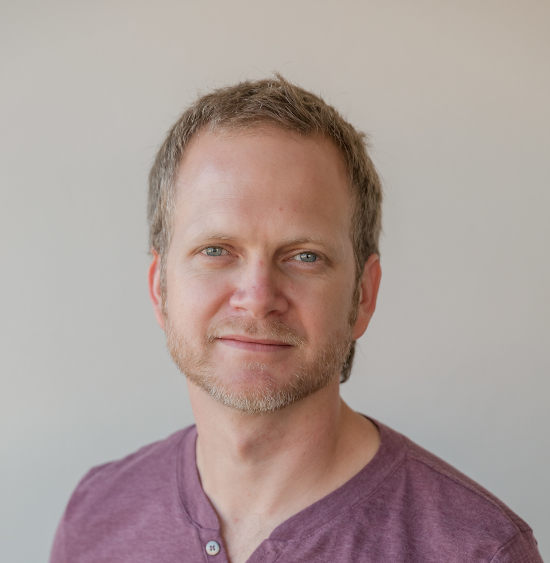
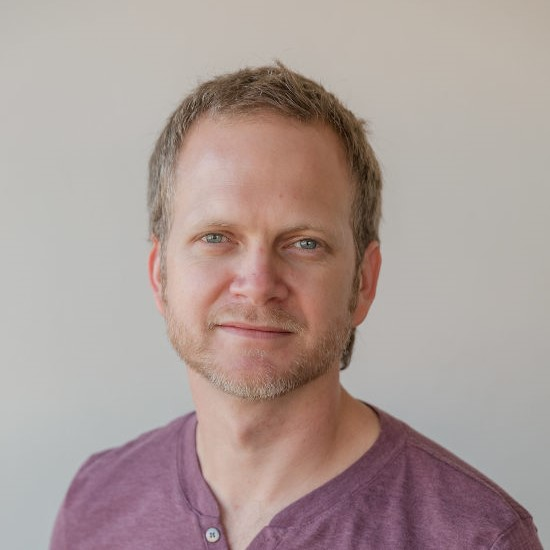
Update people

diff --git a/v/people.html b/v/people.html
@@ -7,43 +7,43 @@
           <img src="/assets/photos/placeholder.png">
           <h3>Marcelo Arenas</h3>
           <a href="mailto:lab@teoriaydatos.cl">lab@teoriaydatos.cl</a>
-          <a href="https://google.com">Personal web</a>
+          <a href="https://google.com">Website</a>
         </span>
         <span>
           <img src="/assets/photos/placeholder.png">
           <h3>Diego Arroyuelo</h3>
           <a href="mailto:lab@teoriaydatos.cl">lab@teoriaydatos.cl</a>
-          <a href="https://google.com">Personal web</a>
+          <a href="https://google.com">Website</a>
         </span>
         <span>
           <img src="/assets/photos/placeholder.png">
           <h3>Pablo Barceló</h3>
           <a href="mailto:lab@teoriaydatos.cl">lab@teoriaydatos.cl</a>
-          <a href="https://google.com">Personal web</a>
+          <a href="https://google.com">Website</a>
         </span>
         <span>
           <img src="/assets/photos/placeholder.png">
           <h3>Juan Reutter</h3>
           <a href="mailto:lab@teoriaydatos.cl">lab@teoriaydatos.cl</a>
-          <a href="https://google.com">Personal web</a>
+          <a href="https://google.com">Website</a>
         </span>
         <span>
           <img src="/assets/photos/cristian-riveros.jpg">
           <h3>Cristian Riveros</h3>
           <a href="mailto:lab@teoriaydatos.cl">cristian.riveros@uc.cl</a>
-          <a href="https://criveros.sitios.ing.uc.cl/">Personal web</a>  
+          <a href="https://criveros.sitios.ing.uc.cl/">Website</a>  
         </span>
         <span>
           <img src="/assets/photos/placeholder.png">
           <h3>Miguel Romero</h3>
           <a href="mailto:lab@teoriaydatos.cl">lab@teoriaydatos.cl</a>
-          <a href="https://google.com">Personal web</a>
+          <a href="https://google.com">Website</a>
         </span>
         <span>
           <img src="/assets/photos/placeholder.png">
           <h3>Domagoj Vrgoc</h3>
           <a href="mailto:lab@teoriaydatos.cl">lab@teoriaydatos.cl</a>
-          <a href="https://google.com">Personal web</a>
+          <a href="https://google.com">Website</a>
         </span>
     </div>
     <h2>PhD. Students</h2>
@@ -52,106 +52,106 @@
           <img src="/assets/photos/placeholder.png">
           <h3>Alejandro Grez</h3>
           <a href="mailto:lab@teoriaydatos.cl">lab@teoriaydatos.cl</a>
-          <a href="https://google.com">Personal web</a>
+          <a href="https://google.com">Website</a>
         </span>
         <span>
           <img src="/assets/photos/placeholder.png">
           <h3>Martin Muñoz</h3>
           <a href="mailto:lab@teoriaydatos.cl">lab@teoriaydatos.cl</a>
-          <a href="https://google.com">Personal web</a>
+          <a href="https://google.com">Website</a>
         </span>
         <span>
           <img src="/assets/photos/placeholder.png">
           <h3>Alexander Pinto</h3>
           <a href="mailto:lab@teoriaydatos.cl">lab@teoriaydatos.cl</a>
-          <a href="https://google.com">Personal web</a>
+          <a href="https://google.com">Website</a>
         </span>
         <span>
           <img src="/assets/photos/placeholder.png">
           <h3>Jorge Salas</h3>
           <a href="mailto:lab@teoriaydatos.cl">lab@teoriaydatos.cl</a>
-          <a href="https://google.com">Personal web</a>
+          <a href="https://google.com">Website</a>
         </span>
     </div>
     <h2>MSc. Students</h2>
     <div>
         <span>
-          <img src="/assets/photos/placeholder.png">
+          <img src="/assets/photos/diego-bustamante.jpg">
           <h3>Diego Bustamante</h3>
-          <a href="mailto:lab@teoriaydatos.cl">lab@teoriaydatos.cl</a>
-          <a href="https://google.com">Personal web</a>
+          <a href="mailto:diegobustama@uc.cl">diegobustama@uc.cl</a>
+          <a href="https://diegoemilio.com/">Website</a>
         </span>
         <span>
           <img src="/assets/photos/placeholder.png">
           <h3>Jose Thomas Caraball</h3>
           <a href="mailto:lab@teoriaydatos.cl">lab@teoriaydatos.cl</a>
-          <a href="https://google.com">Personal web</a>
+          <a href="https://google.com">Website</a>
         </span>
         <span>
           <img src="/assets/photos/placeholder.png">
           <h3>Mauricio Cari</h3>
           <a href="mailto:lab@teoriaydatos.cl">lab@teoriaydatos.cl</a>
-          <a href="https://google.com">Personal web</a>
+          <a href="https://google.com">Website</a>
         </span>
         <span>
           <img src="/assets/photos/placeholder.png">
           <h3>Benjamín Farías</h3>
           <a href="mailto:lab@teoriaydatos.cl">lab@teoriaydatos.cl</a>
-          <a href="https://google.com">Personal web</a>
+          <a href="https://google.com">Website</a>
         </span>
         <span>
           <img src="/assets/photos/placeholder.png">
           <h3>Julián García</h3>
           <a href="mailto:lab@teoriaydatos.cl">lab@teoriaydatos.cl</a>
-          <a href="https://google.com">Personal web</a>
+          <a href="https://google.com">Website</a>
         </span>
         <span>
           <img src="/assets/photos/placeholder.png">
           <h3>Sebastián Hagedorn</h3>
           <a href="mailto:lab@teoriaydatos.cl">lab@teoriaydatos.cl</a>
-          <a href="https://google.com">Personal web</a>
+          <a href="https://google.com">Website</a>
         </span>
         <span>
           <img src="/assets/photos/placeholder.png">
           <h3>Vicente Lermanda</h3>
           <a href="mailto:lab@teoriaydatos.cl">lab@teoriaydatos.cl</a>
-          <a href="https://google.com">Personal web</a>
+          <a href="https://google.com">Website</a>
         </span>
         <span>
           <img src="/assets/photos/placeholder.png">
           <h3>Federico Natho</h3>
           <a href="mailto:lab@teoriaydatos.cl">lab@teoriaydatos.cl</a>
-          <a href="https://google.com">Personal web</a>
+          <a href="https://google.com">Website</a>
         </span>
         <span>
           <img src="/assets/photos/placeholder.png">
           <h3>Maximiliano Ojeda</h3>
           <a href="mailto:lab@teoriaydatos.cl">lab@teoriaydatos.cl</a>
-          <a href="https://google.com">Personal web</a>
+          <a href="https://google.com">Website</a>
         </span>
         <span>
           <img src="/assets/photos/placeholder.png">
           <h3>Dante Pinto</h3>
           <a href="mailto:lab@teoriaydatos.cl">lab@teoriaydatos.cl</a>
-          <a href="https://google.com">Personal web</a>
+          <a href="https://google.com">Website</a>
         </span>
         <span>
           <img src="/assets/photos/placeholder.png">
           <h3>Amaranta Salas</h3>
           <a href="mailto:lab@teoriaydatos.cl">lab@teoriaydatos.cl</a>
-          <a href="https://google.com">Personal web</a>
+          <a href="https://google.com">Website</a>
         </span>
         <span>
           <img src="/assets/photos/placeholder.png">
           <h3>Nicolás Van Sint Jan</h3>
           <a href="mailto:lab@teoriaydatos.cl">lab@teoriaydatos.cl</a>
-          <a href="https://google.com">Personal web</a>
+          <a href="https://google.com">Website</a>
         </span>
         <span>
           <img src="/assets/photos/placeholder.png">
           <h3>Lucas Valenzuela</h3>
           <a href="mailto:lab@teoriaydatos.cl">lab@teoriaydatos.cl</a>
-          <a href="https://google.com">Personal web</a>
+          <a href="https://google.com">Website</a>
         </span>
     </div>
     <h2>Engineering Team</h2>
@@ -160,7 +160,7 @@
           <img src="/assets/photos/placeholder.png">
           <h3>Calos Rojas</h3>
           <a href="mailto:lab@teoriaydatos.cl">lab@teoriaydatos.cl</a>
-          <a href="https://google.com">Personal web</a>
+          <a href="https://google.com">Website</a>
         </span>
     </div>
     <h2>Graduated Students</h2>
@@ -169,13 +169,13 @@
           <img src="/assets/photos/placeholder.png">
           <h3>Sebastián Bugedo (MSc.)</h3>
           <a href="mailto:lab@teoriaydatos.cl">lab@teoriaydatos.cl</a>
-          <a href="https://google.com">Personal web</a>
+          <a href="https://google.com">Website</a>
         </span>
         <span>
           <img src="/assets/photos/placeholder.png">
           <h3>Ricardo Rodriguez (MSc.)</h3>
           <a href="mailto:lab@teoriaydatos.cl">lab@teoriaydatos.cl</a>
-          <a href="https://google.com">Personal web</a>
+          <a href="https://google.com">Website</a>
         </span>
     </div>
 </section>

diff --git a/style/queries.css b/style/queries.css
@@ -56,11 +56,6 @@
 		grid-template-columns: repeat(3, 1fr);
 	}
 
-	div span img {
-		max-width: 25vw;
-		height: auto;
-	}
-
   .headerText h1 {
     font-size: 48px;
   }

diff --git a/style/index.css b/style/index.css
@@ -189,7 +189,7 @@ section div span a:visited {
 }
 
 div span img {
-  max-width: 55vw;
+  max-width: 90%;
   height: auto;
 }
 
